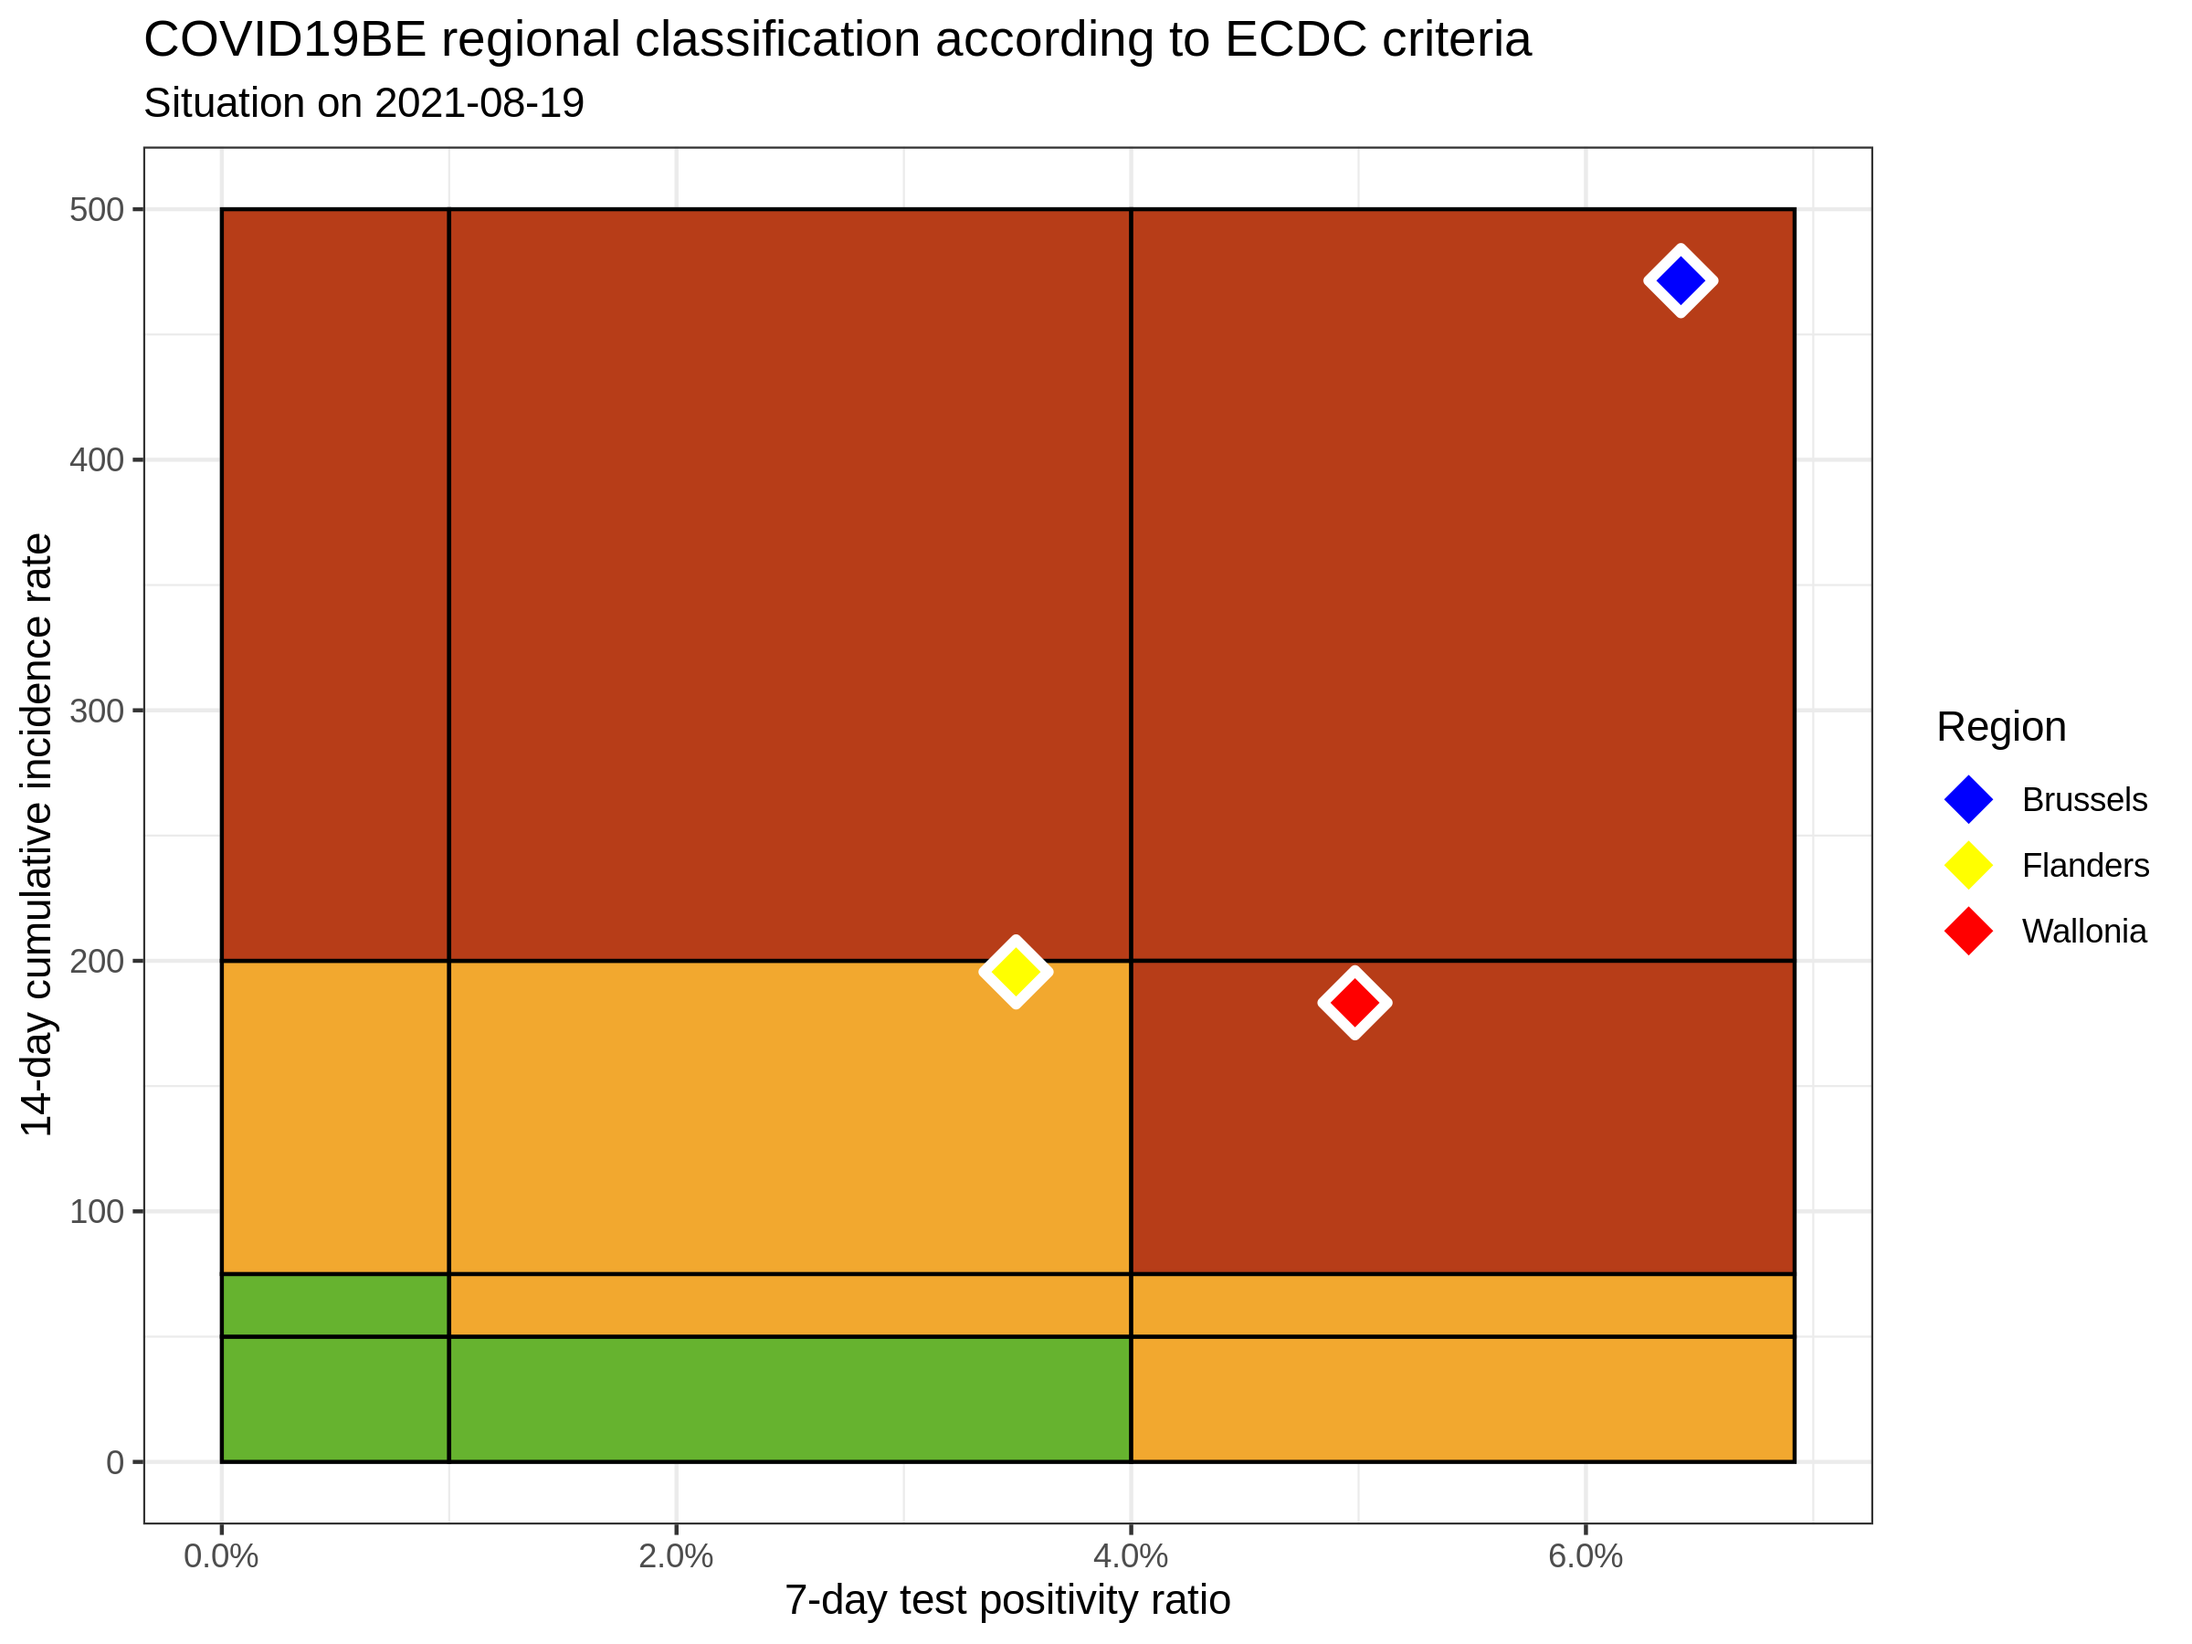
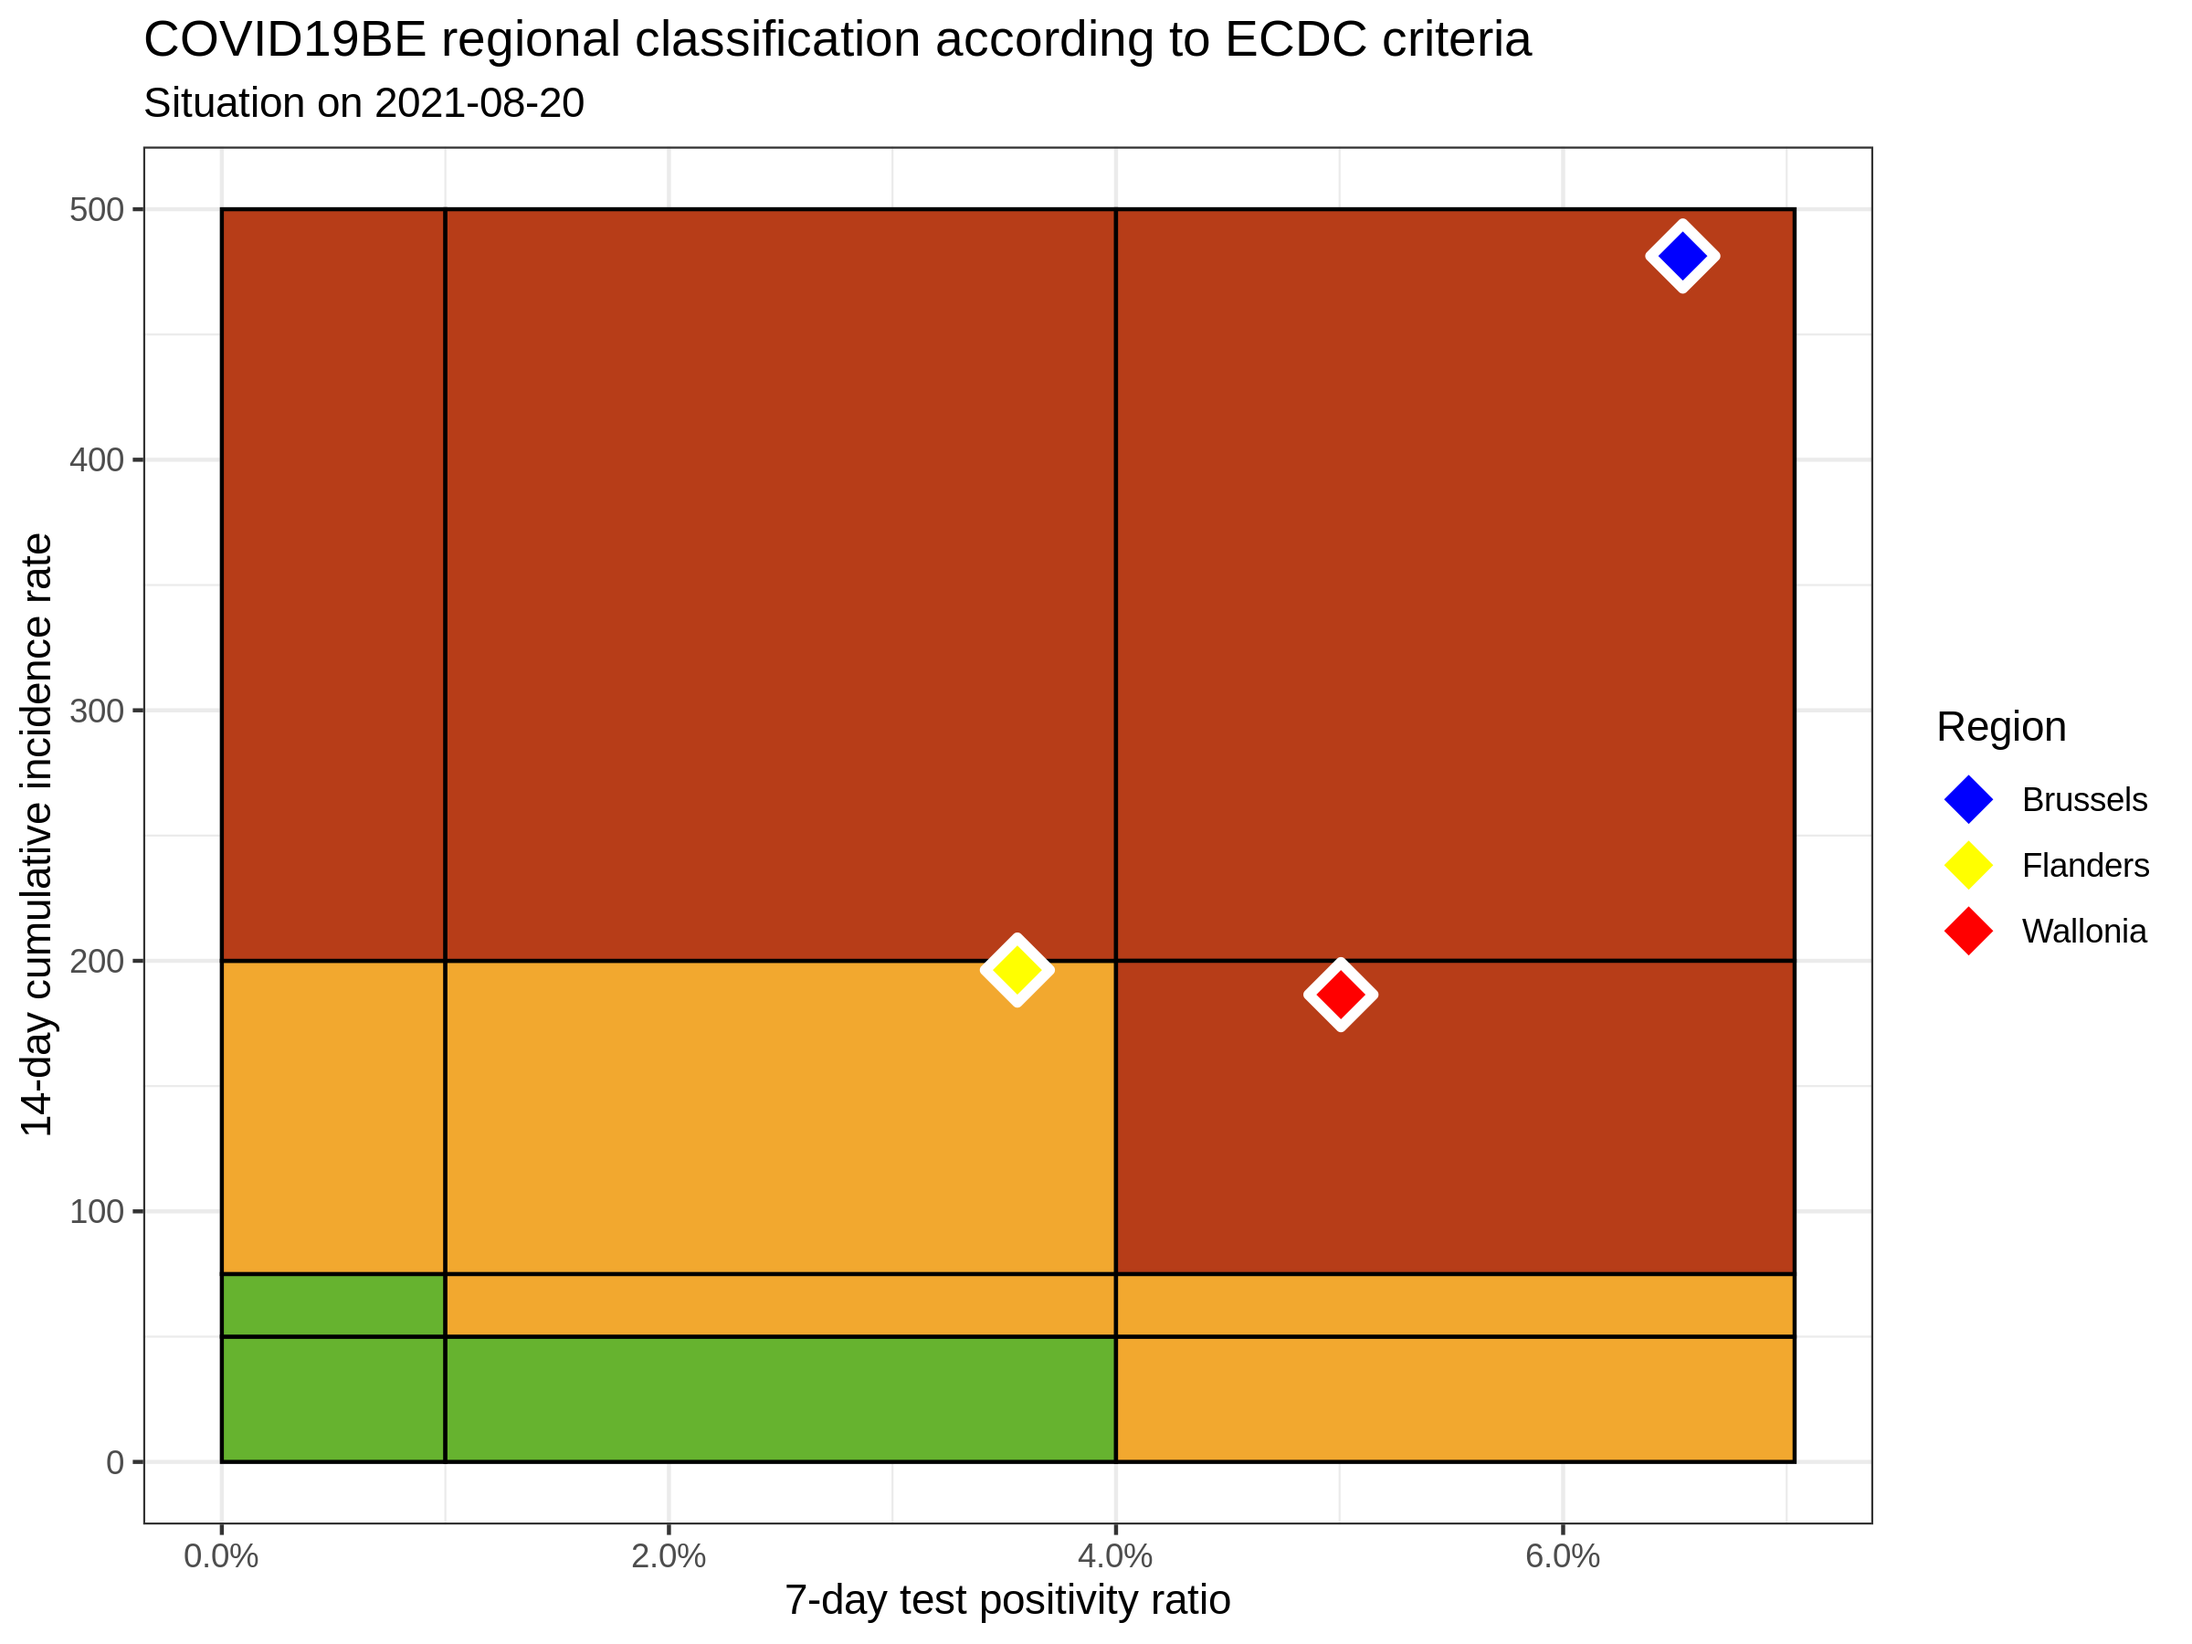
update situation

diff --git a/ecdc-trend/README.md b/ecdc-trend/README.md
@@ -11,9 +11,9 @@
 
 |          | INC14 | INC7 |   TST7 | TST\_POS7 | REGION   |     POP | INC14\_RT |       PR7 |
 | :------- | ----: | ---: | -----: | --------: | :------- | ------: | --------: | --------: |
-| Brussels |  5752 | 3106 |  52572 |      3374 | Brussels | 1219970 |  471.4870 | 0.0641787 |
-| Flanders | 13012 | 6439 | 204732 |      7152 | Flanders | 6653062 |  195.5791 | 0.0349335 |
-| Wallonia |  6686 | 3655 |  79610 |      3968 | Wallonia | 3648206 |  183.2682 | 0.0498430 |
+| Brussels |  5872 | 3141 |  53646 |      3506 | Brussels | 1219970 |  481.3233 | 0.0653544 |
+| Flanders | 13061 | 6422 | 202915 |      7221 | Flanders | 6653062 |  196.3156 | 0.0355863 |
+| Wallonia |  6804 | 3657 |  79824 |      3996 | Wallonia | 3648206 |  186.5026 | 0.0500601 |
 
 ### Read more
 
